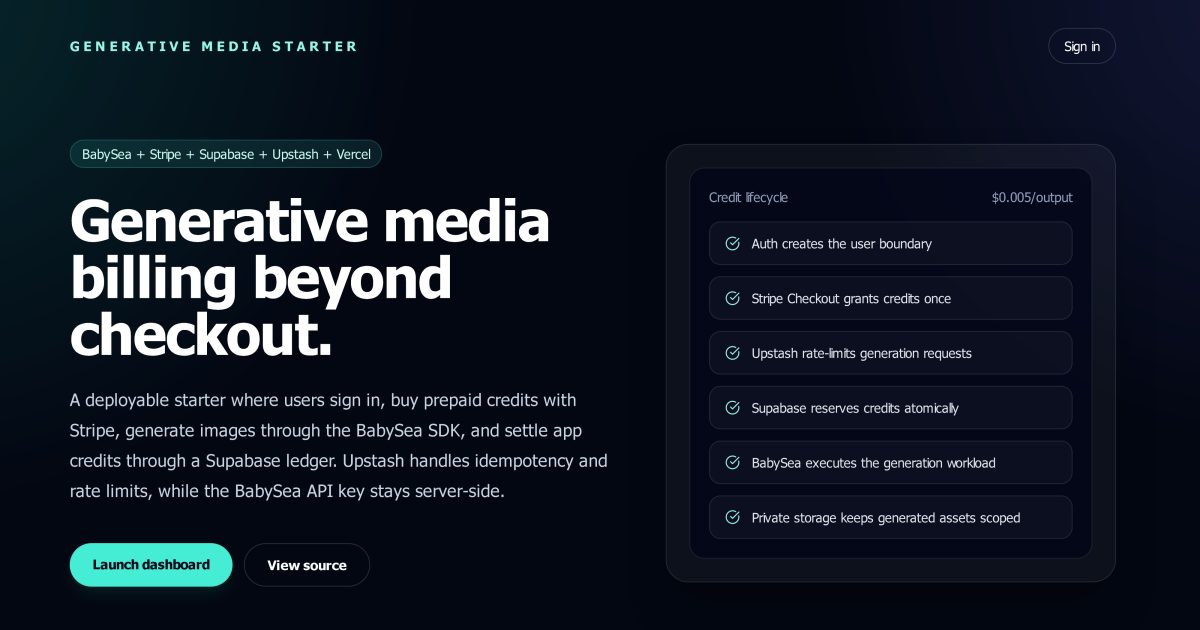
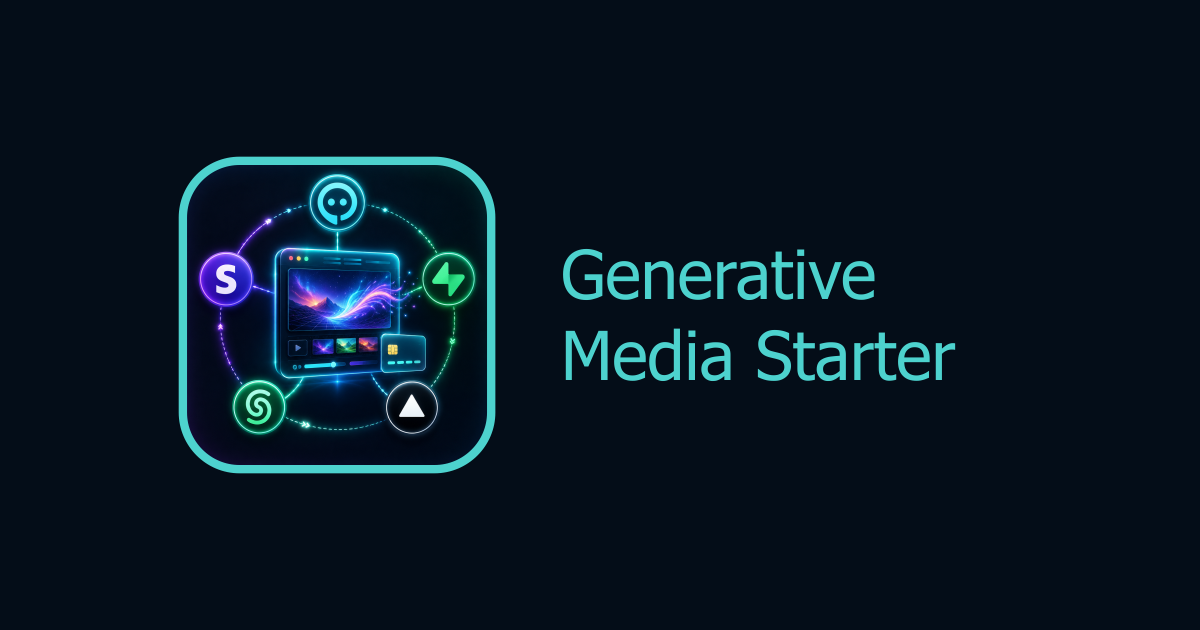
Deploy generative-media-starter OSS: 021
Package version: v0.2.4.

Publish the standalone generative-media-starter OSS. See CHANGELOG.md for the complete change summary.

diff --git a/app/layout.tsx b/app/layout.tsx
@@ -5,7 +5,7 @@ const title = 'Generative Media Starter';
 const description =
   'Credit-based generative media app. Built with Next.js, Stripe, Supabase, Upstash, and the BabySea SDK.';
 const socialImageUrl =
-  'https://cdn.babysea.live/assets/logo/company/card/generative-media-starter.png';
+  'https://cdn.babysea.live/assets/oss/generative-media-starter-card.png';
 
 export const metadata: Metadata = {
   metadataBase: new URL('https://demo.generative-media-starter.babysea.live'),

diff --git a/README.md b/README.md
@@ -1,8 +1,8 @@
 <div align="center">
 
 <p>
-  <a href="https://demo.generative-media-starter.babysea.live">
-    <img src="public/icon.png" width="100" alt="Generative Media Starter logo" />
+  <a>
+    <img src="public/icon.png" width="100" alt="Generative Media Starter icon" />
   </a>
 </p>
 
@@ -21,7 +21,20 @@
 <br />
 
 <a href="https://demo.generative-media-starter.babysea.live">
-  <img src="public/card.png" alt="Generative Media Starter preview" />
+  <img src="public/button-demo.png" height="40" alt="Generative Media Starter demo" />
+</a>
+
+<br />
+<br />
+
+<a>
+  <img src="public/card.png" alt="Generative Media Starter card" />
+</a>
+
+<br />
+
+<a>
+  <img src="public/dashboard.png" alt="Generative Media Starter dashboard" />
 </a>
 
 <br/>

diff --git a/CHANGELOG.md b/CHANGELOG.md
@@ -79,7 +79,7 @@ All notable changes to `generative-media-starter` will be documented here. The f
 - README status badge and status copy now describe the project as a working OSS starter rather than a reference-only starter.
 - README anchors now keep the OSS Starters badge focused on the starter itself, and the broad OSS taxonomy / primitive cross-promotion block was replaced with starter-specific related resources.
 - Deployment, Supabase, and agent-guide wording now describes OSS starters as working deployable apps and clarifies that publish validation runs before push rather than through mandatory GitHub status checks.
-- OG social image URL switched from `public` folder to `https://cdn.babysea.live/assets/logo/company/card/generative-media-starter.png` for reliable social-crawler resolution.
+- OG social image URL switched from `public` folder to `https://cdn.babysea.live/assets/oss/generative-media-starter-card.png` for reliable social-crawler resolution.
 - Landing page "Sign in" button now shows only a `LogIn` icon on mobile (`< sm`) and the full "Sign in" label on `sm+`, consistent with the dashboard sign-out button.
 - OG social image now served from the `public` folder (`/generative-media-starter.png`) instead of a raw GitHub URL.
 - Stats row ("Balance" and "Execution policy") is now a two-column grid on all screen sizes so both pills sit side by side on mobile.